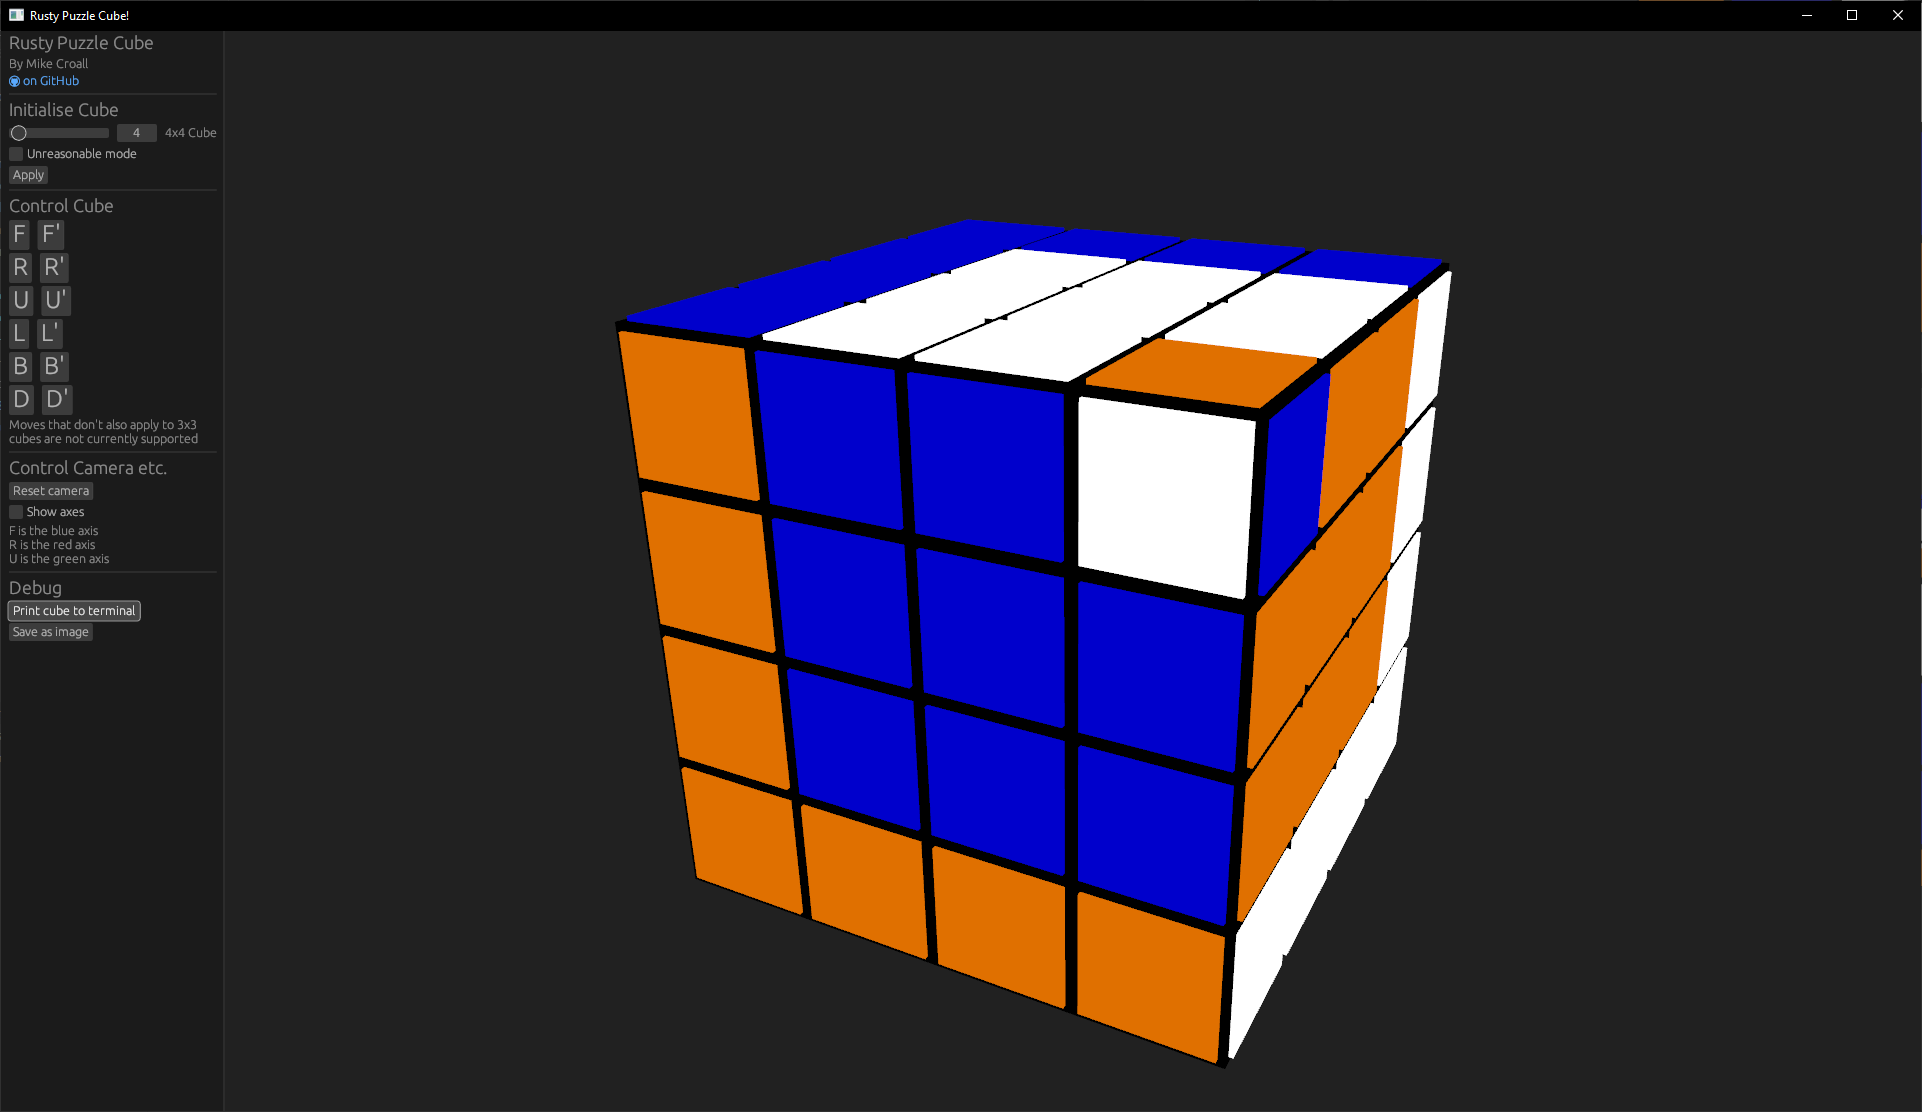
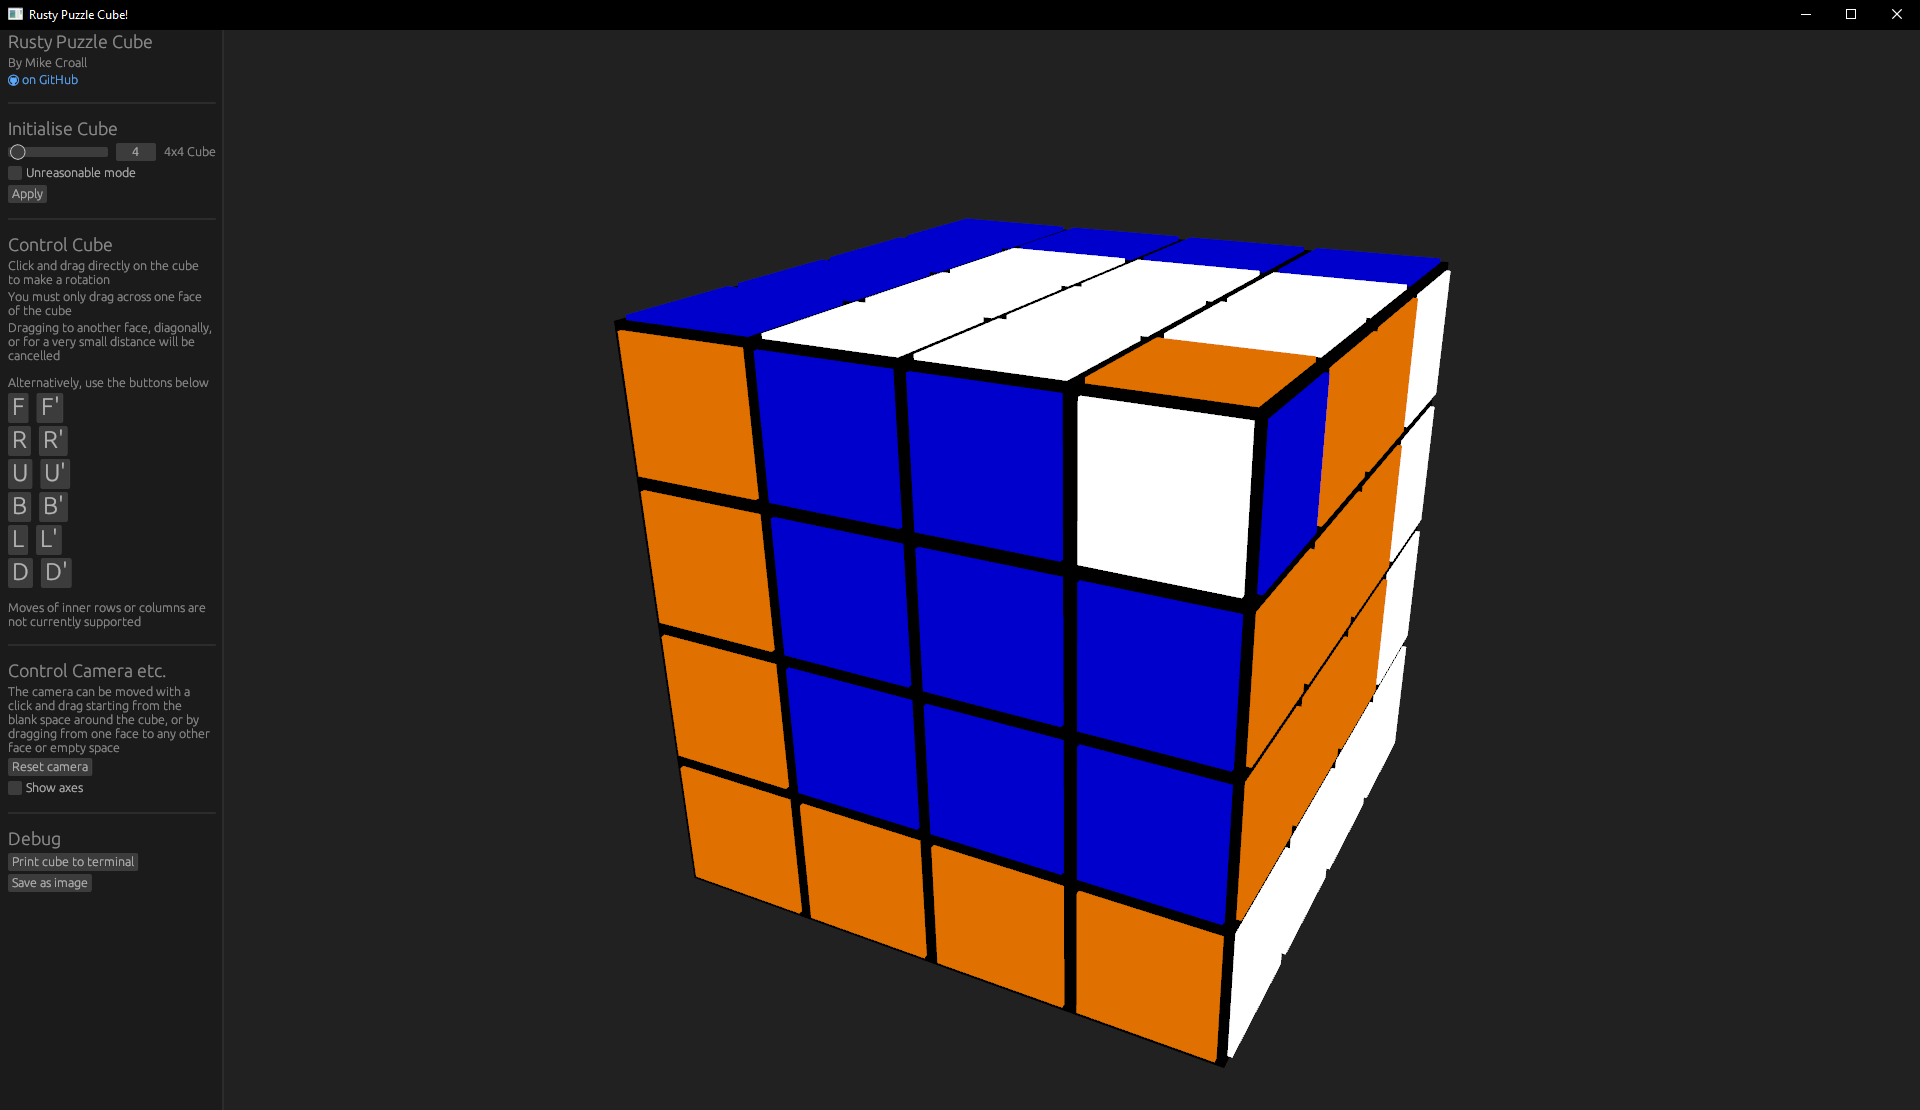
readme: update for mouse control

Changed region(s): [[0.0, 0.0, 0.0938, 0.827], [0.9375, 0.0, 0.9688, 0.0306], [0.5938, 0.2144, 0.625, 0.245]]

diff --git a/README.md b/README.md
@@ -18,6 +18,10 @@ Experimental, still a work in progress, etc.
 
 #### Controls
 
+Click and drag along the edge of a face to perform a rotation
+
+Rotations are currently only supported for the outer edges of the cube
+
 Unreasonable mode simply changes the maximum cube size from 100 to 2000
 
 Some controls are removed on the WASM target
